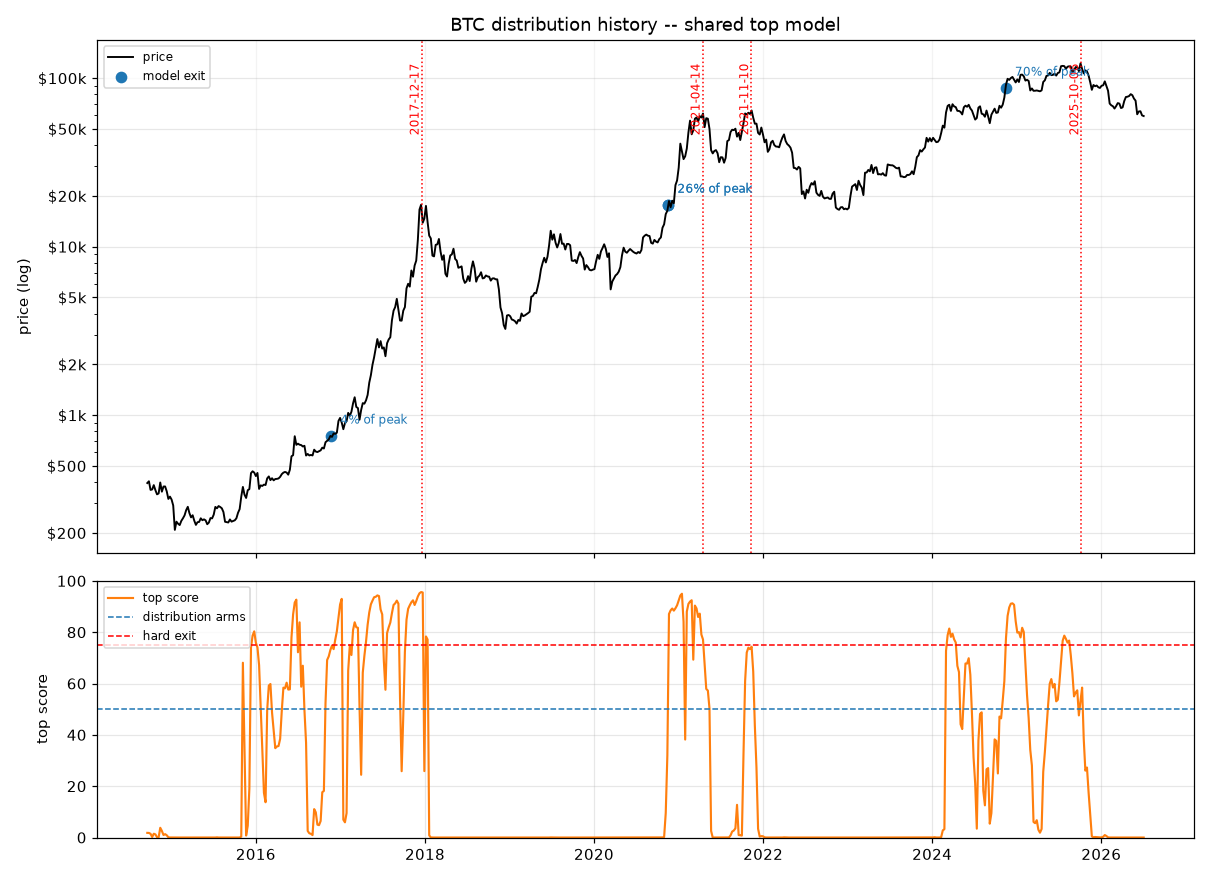
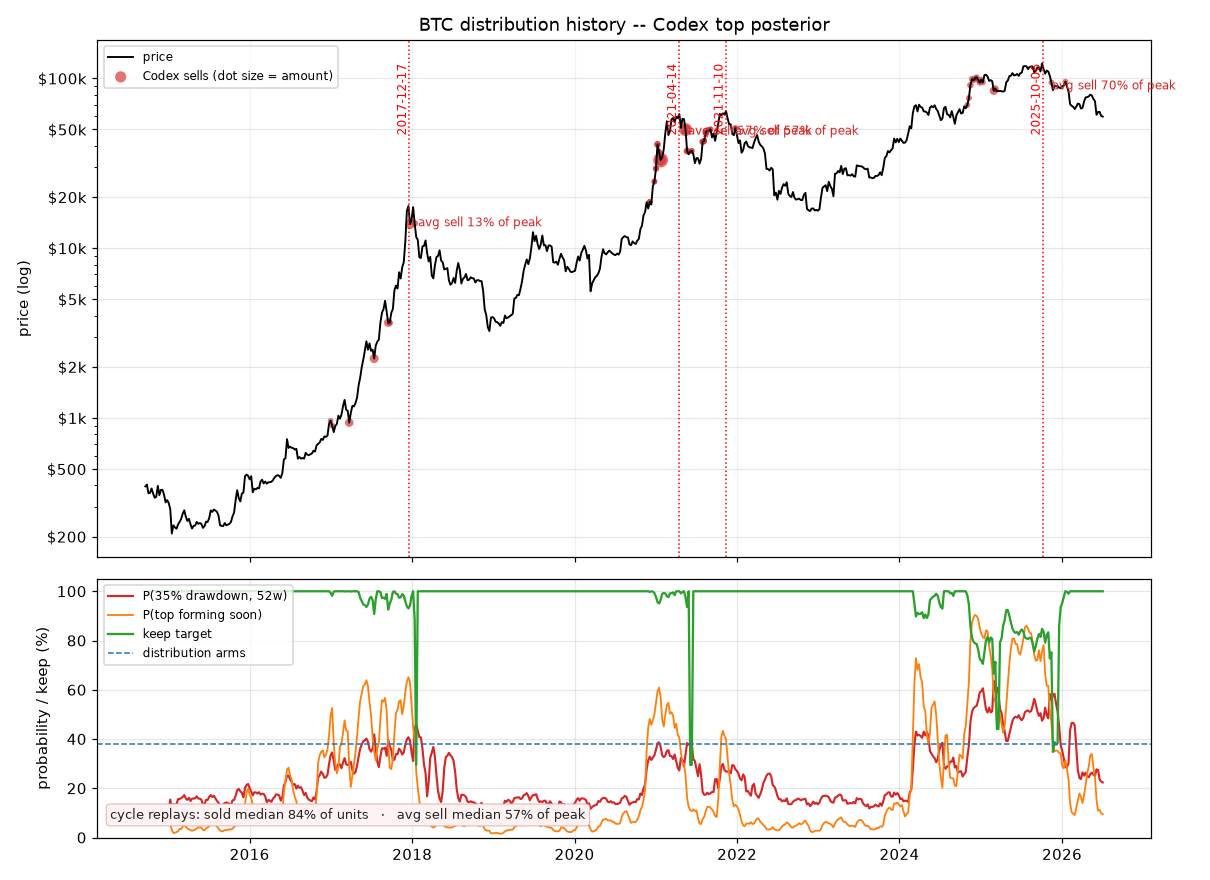
Add Codex top distribution layer

diff --git a/index.html b/index.html
@@ -208,7 +208,7 @@ pre.err { background:#161b22; border:1px solid #5a1f1f; color:#ffb4b4; padding:1
 </style></head><body>
       <header>
         <div class="title">Codex Crypto Cycle Dashboard</div>
-        <div class="meta">2026-06-28 · data as of 21:08 ET</div>
+        <div class="meta">2026-06-28 · data as of 21:59 ET</div>
       </header>
       
       <section class="codex">
@@ -252,6 +252,7 @@ pre.err { background:#161b22; border:1px solid #5a1f1f; color:#ffb4b4; padding:1
               <span>Codex full-policy target <b>20%</b></span>
               <span class="sub">target deployed 20% · cash/reserve 80% = 100% · raw posterior target 20%</span>
               <span class="sub">mode bottom accumulation · depth floor events 5 · hard reserve floor 20% · reserve released 0% · redeployed 0% · avg cost $66,410</span>
+              <span class="sub">top distribution inactive / LOW · keep 100% of existing holdings · P(35% drawdown, 52w) 22%</span>
             </div>
             <div class="minirows">
               <div class="minirow"><span>lowest-regret rows</span><span>target</span><span>score</span></div>
@@ -291,6 +292,7 @@ pre.err { background:#161b22; border:1px solid #5a1f1f; color:#ffb4b4; padding:1
               <span>Codex full-policy target <b>35%</b></span>
               <span class="sub">target deployed 35% · cash/reserve 65% = 100% · raw posterior target 35%</span>
               <span class="sub">mode bottom accumulation · depth floor events 4 · hard reserve floor 30% · reserve released 0% · redeployed 0% · avg cost $1,859</span>
+              <span class="sub">top distribution inactive / LOW · keep 100% of existing holdings · P(35% drawdown, 52w) 15%</span>
             </div>
             <div class="minirows">
               <div class="minirow"><span>lowest-regret rows</span><span>target</span><span>score</span></div>
@@ -299,7 +301,7 @@ pre.err { background:#161b22; border:1px solid #5a1f1f; color:#ffb4b4; padding:1
           </div>
         </section></div></section>
       <section class="planner"><h3>Weekly buy planner <span class="sub" style="font-weight:400">· Codex full-policy target</span></h3><p class='sub'>Enter your total pool and how much you've <b>already deployed</b>. Each week it compares that against the full-policy target, catches up gradually if you are behind, and holds the remaining cash for either a deeper low or confirmation that the low is behind us. Runs entirely in your browser; nothing is sent anywhere.</p><div class="pgrid"><div class="pin"><label>BTC total pool</label><div class="inwrap"><span>$</span><input id="pool-BTC" type="number" min="0" step="100" inputmode="decimal" oninput="recompute()" placeholder="e.g. 100000"></div></div><div class="pin"><label>BTC already deployed</label><div class="inwrap"><span>$</span><input id="dep-BTC" type="number" min="0" step="100" inputmode="decimal" oninput="recompute()" placeholder="0"></div></div><div class="pin"><label>ETH total pool</label><div class="inwrap"><span>$</span><input id="pool-ETH" type="number" min="0" step="100" inputmode="decimal" oninput="recompute()" placeholder="e.g. 50000"></div></div><div class="pin"><label>ETH already deployed</label><div class="inwrap"><span>$</span><input id="dep-ETH" type="number" min="0" step="100" inputmode="decimal" oninput="recompute()" placeholder="0"></div></div></div><div id="pout" class="pout"></div><script>
-const POLICY={"BTC": {"now_f": 0.1954, "tgt_f": 0.1954, "res_f": 0.8046, "H": 52, "anchor": 24625, "regime": "FULL POLICY", "color": "#1f6feb", "dist": false, "keep_f": 0, "stop_pct": null, "stop_price": null}, "ETH": {"now_f": 0.3477, "tgt_f": 0.3477, "res_f": 0.6523, "H": 52, "anchor": 919, "regime": "FULL POLICY", "color": "#1f6feb", "dist": false, "keep_f": 0, "stop_pct": null, "stop_price": null}};
+const POLICY={"BTC": {"now_f": 0.1954, "tgt_f": 0.1954, "res_f": 0.8046, "H": 52, "anchor": 24625, "regime": "FULL POLICY", "color": "#1f6feb", "dist": false, "keep_f": 1.0, "stop_pct": null, "stop_price": null}, "ETH": {"now_f": 0.3477, "tgt_f": 0.3477, "res_f": 0.6523, "H": 52, "anchor": 919, "regime": "FULL POLICY", "color": "#1f6feb", "dist": false, "keep_f": 1.0, "stop_pct": null, "stop_price": null}};
 
 function fmt(x){return '$'+Math.round(x).toLocaleString('en-US');}
 function pct(x){return (x*100).toFixed(0)+'%';}
@@ -528,6 +530,6 @@ fetch('history.json').then(function(r){return r.ok?r.json():[];}).then(function(
   histRender();
 }).catch(function(){var el=document.getElementById('histwrap');if(el)el.innerHTML='<div class="sub">History unavailable.</div>';});
 </script>
-        <h3>Historic Accumulation Replays <span class='sub'>· tap any chart to open it full-size</span></h3><p class='sub' style='max-width:780px;margin:-2px 0 14px;line-height:1.55'>The dashboard is in an accumulation-side regime, so the bottom section starts with the current 2026 accumulation path, then shows prior-cycle Codex full-policy replays. These charts use the same posterior + convex depth-floor deployment policy used by the live target above.</p><div class='gallery'><figure><a class="shot" href="reports/codex_deploy_BTC_2026.png?v=884e72af" target="_blank" rel="noopener"><img loading="lazy" src="reports/codex_deploy_BTC_2026.png?v=884e72af" alt="BTC · 2026 current Codex accumulation replay"></a><figcaption><span class="takeaway">BTC — 2026 current cycle</span><span class="cap"><b>2026 / current cycle.</b> Codex full policy replayed through the live accumulation campaign so far. This is incomplete by definition: no realized bottom/recovery verdict yet, but it shows how today's posterior + depth floor has actually deployed.</span><span class="sub">BTC · 2026 current Codex accumulation replay · 2026-06-28 21:08</span></figcaption></figure><figure><a class="shot" href="reports/codex_deploy_ETH_2026.png?v=75ebe8f7" target="_blank" rel="noopener"><img loading="lazy" src="reports/codex_deploy_ETH_2026.png?v=75ebe8f7" alt="ETH · 2026 current Codex accumulation replay"></a><figcaption><span class="takeaway">ETH — 2026 current cycle</span><span class="cap"><b>2026 / current cycle.</b> ETH's ongoing Codex full-policy accumulation path, including the higher hard-reserve floor and convex depth floor. Incomplete until the cycle resolves.</span><span class="sub">ETH · 2026 current Codex accumulation replay · 2026-06-28 21:08</span></figcaption></figure><figure><a class="shot" href="reports/codex_deploy_BTC_2022.png?v=083b7e45" target="_blank" rel="noopener"><img loading="lazy" src="reports/codex_deploy_BTC_2022.png?v=083b7e45" alt="BTC · 2022 Codex accumulation replay"></a><figcaption><span class="takeaway">BTC — 2022 double bottom</span><span class="cap"><b>2022 bear.</b> Codex posterior + convex depth floor replayed through the real double-bottom bear. The lower panel shows cash left; green dots show actual weekly buys under the Codex full policy.</span><span class="sub">BTC · 2022 Codex accumulation replay · 2026-06-28 21:08</span></figcaption></figure><figure><a class="shot" href="reports/codex_deploy_ETH_2022.png?v=7f355a00" target="_blank" rel="noopener"><img loading="lazy" src="reports/codex_deploy_ETH_2022.png?v=7f355a00" alt="ETH · 2022 Codex accumulation replay"></a><figcaption><span class="takeaway">ETH — 2022 double bottom</span><span class="cap"><b>2022 bear.</b> Same Codex policy on ETH. This is the policy behind the live dashboard target, including hard reserve, re-arm and recovery redeploy.</span><span class="sub">ETH · 2022 Codex accumulation replay · 2026-06-28 21:08</span></figcaption></figure><figure><a class="shot" href="reports/codex_deploy_BTC_2020covid.png?v=bcfa1c9b" target="_blank" rel="noopener"><img loading="lazy" src="reports/codex_deploy_BTC_2020covid.png?v=bcfa1c9b" alt="BTC · 2020 COVID Codex replay"></a><figcaption><span class="takeaway">BTC — 2020 fast V</span><span class="cap"><b>2020 COVID crash.</b> A fast-V stress case: the policy cannot know a low will round-trip quickly, so this shows the opportunity cost of keeping reserve for a deeper leg.</span><span class="sub">BTC · 2020 COVID Codex replay · 2026-06-28 21:08</span></figcaption></figure><figure><a class="shot" href="reports/codex_deploy_ETH_2020covid.png?v=f528c770" target="_blank" rel="noopener"><img loading="lazy" src="reports/codex_deploy_ETH_2020covid.png?v=f528c770" alt="ETH · 2020 COVID Codex replay"></a><figcaption><span class="takeaway">ETH — 2020 fast V</span><span class="cap"><b>2020 COVID crash.</b> ETH's fast-V replay under Codex full policy.</span><span class="sub">ETH · 2020 COVID Codex replay · 2026-06-28 21:08</span></figcaption></figure><figure><a class="shot" href="reports/codex_deploy_BTC_2019.png?v=d5d206be" target="_blank" rel="noopener"><img loading="lazy" src="reports/codex_deploy_BTC_2019.png?v=d5d206be" alt="BTC · 2019 H2 Codex replay"></a><figcaption><span class="takeaway">BTC — 2019 mid-cycle correction</span><span class="cap"><b>2019 H2 correction.</b> A shallow/mid-cycle pullback replay, useful for checking that the policy does not empty all cash into a non-cycle bottom.</span><span class="sub">BTC · 2019 H2 Codex replay · 2026-06-28 21:08</span></figcaption></figure><figure><a class="shot" href="reports/codex_deploy_ETH_2019.png?v=0a3b6b87" target="_blank" rel="noopener"><img loading="lazy" src="reports/codex_deploy_ETH_2019.png?v=0a3b6b87" alt="ETH · 2019 H2 Codex replay"></a><figcaption><span class="takeaway">ETH — 2019 mid-cycle correction</span><span class="cap"><b>2019 H2 correction.</b> The remaining hard case for Codex: it still buys this shallow ETH dip somewhat expensively versus Claude.</span><span class="sub">ETH · 2019 H2 Codex replay · 2026-06-28 21:08</span></figcaption></figure><figure><a class="shot" href="reports/codex_deploy_BTC_2018.png?v=c0d3def8" target="_blank" rel="noopener"><img loading="lazy" src="reports/codex_deploy_BTC_2018.png?v=c0d3def8" alt="BTC · 2018 Codex accumulation replay"></a><figcaption><span class="takeaway">BTC — 2018 single low</span><span class="cap"><b>2018 bear.</b> A slow single-low bear replay. The chart shows how the depth floor gets working capital on the field without claiming the bottom is known.</span><span class="sub">BTC · 2018 Codex accumulation replay · 2026-06-28 21:08</span></figcaption></figure><figure><a class="shot" href="reports/codex_deploy_ETH_2018.png?v=c6d36360" target="_blank" rel="noopener"><img loading="lazy" src="reports/codex_deploy_ETH_2018.png?v=c6d36360" alt="ETH · 2018 Codex accumulation replay"></a><figcaption><span class="takeaway">ETH — 2018 first-cycle bear</span><span class="cap"><b>2018 bear.</b> ETH's first-cycle bear, shown because it is the hardest historical left-tail case.</span><span class="sub">ETH · 2018 Codex accumulation replay · 2026-06-28 21:08</span></figcaption></figure></div>
+        <h3>Historic Accumulation Replays <span class='sub'>· tap any chart to open it full-size</span></h3><p class='sub' style='max-width:780px;margin:-2px 0 14px;line-height:1.55'>The dashboard is in an accumulation-side regime, so the bottom section starts with the current 2026 accumulation path, then shows prior-cycle Codex full-policy replays. These charts use the same posterior + convex depth-floor deployment policy used by the live target above.</p><div class='gallery'><figure><a class="shot" href="reports/codex_deploy_BTC_2026.png?v=884e72af" target="_blank" rel="noopener"><img loading="lazy" src="reports/codex_deploy_BTC_2026.png?v=884e72af" alt="BTC · 2026 current Codex accumulation replay"></a><figcaption><span class="takeaway">BTC — 2026 current cycle</span><span class="cap"><b>2026 / current cycle.</b> Codex full policy replayed through the live accumulation campaign so far. This is incomplete by definition: no realized bottom/recovery verdict yet, but it shows how today's posterior + depth floor has actually deployed.</span><span class="sub">BTC · 2026 current Codex accumulation replay · 2026-06-28 21:58</span></figcaption></figure><figure><a class="shot" href="reports/codex_deploy_ETH_2026.png?v=75ebe8f7" target="_blank" rel="noopener"><img loading="lazy" src="reports/codex_deploy_ETH_2026.png?v=75ebe8f7" alt="ETH · 2026 current Codex accumulation replay"></a><figcaption><span class="takeaway">ETH — 2026 current cycle</span><span class="cap"><b>2026 / current cycle.</b> ETH's ongoing Codex full-policy accumulation path, including the higher hard-reserve floor and convex depth floor. Incomplete until the cycle resolves.</span><span class="sub">ETH · 2026 current Codex accumulation replay · 2026-06-28 21:58</span></figcaption></figure><figure><a class="shot" href="reports/codex_deploy_BTC_2022.png?v=083b7e45" target="_blank" rel="noopener"><img loading="lazy" src="reports/codex_deploy_BTC_2022.png?v=083b7e45" alt="BTC · 2022 Codex accumulation replay"></a><figcaption><span class="takeaway">BTC — 2022 double bottom</span><span class="cap"><b>2022 bear.</b> Codex posterior + convex depth floor replayed through the real double-bottom bear. The lower panel shows cash left; green dots show actual weekly buys under the Codex full policy.</span><span class="sub">BTC · 2022 Codex accumulation replay · 2026-06-28 21:58</span></figcaption></figure><figure><a class="shot" href="reports/codex_deploy_ETH_2022.png?v=7f355a00" target="_blank" rel="noopener"><img loading="lazy" src="reports/codex_deploy_ETH_2022.png?v=7f355a00" alt="ETH · 2022 Codex accumulation replay"></a><figcaption><span class="takeaway">ETH — 2022 double bottom</span><span class="cap"><b>2022 bear.</b> Same Codex policy on ETH. This is the policy behind the live dashboard target, including hard reserve, re-arm and recovery redeploy.</span><span class="sub">ETH · 2022 Codex accumulation replay · 2026-06-28 21:58</span></figcaption></figure><figure><a class="shot" href="reports/codex_deploy_BTC_2020covid.png?v=bcfa1c9b" target="_blank" rel="noopener"><img loading="lazy" src="reports/codex_deploy_BTC_2020covid.png?v=bcfa1c9b" alt="BTC · 2020 COVID Codex replay"></a><figcaption><span class="takeaway">BTC — 2020 fast V</span><span class="cap"><b>2020 COVID crash.</b> A fast-V stress case: the policy cannot know a low will round-trip quickly, so this shows the opportunity cost of keeping reserve for a deeper leg.</span><span class="sub">BTC · 2020 COVID Codex replay · 2026-06-28 21:58</span></figcaption></figure><figure><a class="shot" href="reports/codex_deploy_ETH_2020covid.png?v=f528c770" target="_blank" rel="noopener"><img loading="lazy" src="reports/codex_deploy_ETH_2020covid.png?v=f528c770" alt="ETH · 2020 COVID Codex replay"></a><figcaption><span class="takeaway">ETH — 2020 fast V</span><span class="cap"><b>2020 COVID crash.</b> ETH's fast-V replay under Codex full policy.</span><span class="sub">ETH · 2020 COVID Codex replay · 2026-06-28 21:58</span></figcaption></figure><figure><a class="shot" href="reports/codex_deploy_BTC_2019.png?v=d5d206be" target="_blank" rel="noopener"><img loading="lazy" src="reports/codex_deploy_BTC_2019.png?v=d5d206be" alt="BTC · 2019 H2 Codex replay"></a><figcaption><span class="takeaway">BTC — 2019 mid-cycle correction</span><span class="cap"><b>2019 H2 correction.</b> A shallow/mid-cycle pullback replay, useful for checking that the policy does not empty all cash into a non-cycle bottom.</span><span class="sub">BTC · 2019 H2 Codex replay · 2026-06-28 21:58</span></figcaption></figure><figure><a class="shot" href="reports/codex_deploy_ETH_2019.png?v=0a3b6b87" target="_blank" rel="noopener"><img loading="lazy" src="reports/codex_deploy_ETH_2019.png?v=0a3b6b87" alt="ETH · 2019 H2 Codex replay"></a><figcaption><span class="takeaway">ETH — 2019 mid-cycle correction</span><span class="cap"><b>2019 H2 correction.</b> The remaining hard case for Codex: it still buys this shallow ETH dip somewhat expensively versus Claude.</span><span class="sub">ETH · 2019 H2 Codex replay · 2026-06-28 21:58</span></figcaption></figure><figure><a class="shot" href="reports/codex_deploy_BTC_2018.png?v=c0d3def8" target="_blank" rel="noopener"><img loading="lazy" src="reports/codex_deploy_BTC_2018.png?v=c0d3def8" alt="BTC · 2018 Codex accumulation replay"></a><figcaption><span class="takeaway">BTC — 2018 single low</span><span class="cap"><b>2018 bear.</b> A slow single-low bear replay. The chart shows how the depth floor gets working capital on the field without claiming the bottom is known.</span><span class="sub">BTC · 2018 Codex accumulation replay · 2026-06-28 21:58</span></figcaption></figure><figure><a class="shot" href="reports/codex_deploy_ETH_2018.png?v=c6d36360" target="_blank" rel="noopener"><img loading="lazy" src="reports/codex_deploy_ETH_2018.png?v=c6d36360" alt="ETH · 2018 Codex accumulation replay"></a><figcaption><span class="takeaway">ETH — 2018 first-cycle bear</span><span class="cap"><b>2018 bear.</b> ETH's first-cycle bear, shown because it is the hardest historical left-tail case.</span><span class="sub">ETH · 2018 Codex accumulation replay · 2026-06-28 21:58</span></figcaption></figure></div>
       </div>
       <footer>Research / educational only — not investment advice.</footer></body></html>